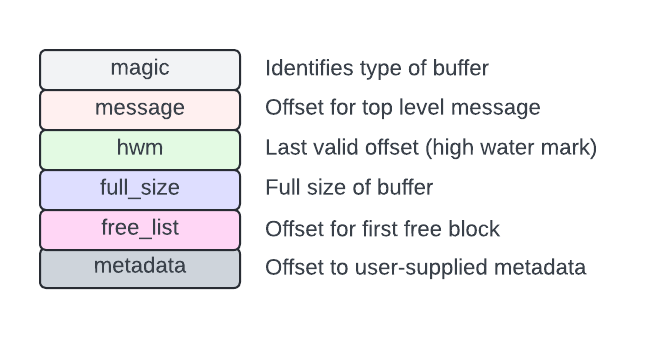
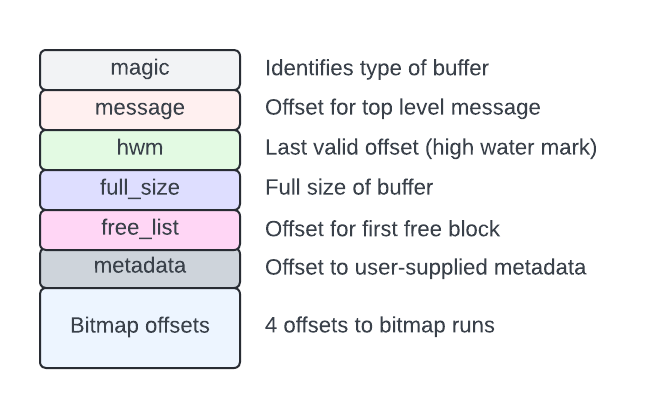
Update docs for bitmap allocator

diff --git a/phaser/docs/phaser_user_guide.md b/phaser/docs/phaser_user_guide.md
@@ -314,6 +314,32 @@ contents are stored).  If the message is **mutable** a `MutableMessageRuntime` i
 contains a map that contains information about the location of the message's `metadata` (where the fields
 are located).
 
+### Tuning the memory allocator
+The memory for the actual message contents is allocated inside the `PayloadBuffer` using a memory allocator (think malloc and free in a restricted, relocatable area of memory).  There are two modes for this memory allocator:
+
+1. Performance mode
+2. Size mode
+
+In performance mode (the default), two types of allocators are used depending on the size of the
+block being allocated:
+
+1. A bitmap allocator for blocks up to 16, 32, 64 and 128 bytes.
+2. A free-list allocator for all other block sizes
+
+The bitmap allocator is about twice as fast when allocating memory but does use more memory
+in the buffer.  This is most appropriate when you want the maximum performance out of the
+allocator but are not concerned about the size of the message.  If you are putting your
+messages in shared memory or somewhere where the message size isn't a concern, you can gain
+performance by using the bitmap allocator.
+
+However, if you are sending your messages over a network and want to keep them small,
+the size mode might be more appropiate.  It should be noted, though, that if you are concerned
+with message size, perhaps regular protobuf might be more suitable than Phaser
+
+To choose which mode to use, you can pass a `::phaser::Tuning` argument to the message
+constructor or creator.  The default is `::phaser::Tuning::kPerformance` and the other option
+is `::phaser::Tuning::kSize`.
+
 ### Creating a message in a dynamic buffer.
 The simplest way to create a Phaser message is the same as protobuf:
 
@@ -328,8 +354,9 @@ void Foo() {
 The above example creates a Phaser message of the type `TestMessage` on the local stack
 frame.  The binary message will be held in a variable sized buffer allocated from the
 heap.  The initial size of the buffer can be specified as an argument to the
-constructor, but is optional with a default of 1024 bytes (if 1K is big enough, or twice the
+constructor, but is optional with a default of 8192 bytes (if 8K is big enough, or twice the
 required binary size if not) but will expand as necessary.
+
 
 To get access to the buffer you can use the `Data()` and `ByteSizeLong()` functions, for
 example:
@@ -340,6 +367,17 @@ void Foo() {
   msg.set_x(1234);
   // ...
   SendMessage(msg.Data(), msg.ByteSizeLong());
+}
+```
+
+You can also tell it which buffer mode to use using a second parameter.  For example, to tune
+for size with a 4K buffer:
+
+```c++
+void Foo() {
+  foo::bar::phaser::TestMessage msg(4096, ::phaser::Tuning::kSize);
+  msg.set_x(1234);
+  // ...
 }
 ```
 
@@ -355,6 +393,7 @@ void Foo() {
   // ...
 }
 ```
+Tuning is also provided here too.
 
 ### Creating a message in a provided buffer.
 If you are using an IPC system that provides shared memory buffers (like [Subspace](https://github.com/dallison/subspace)) you will want to create your message directly in the shared memory.  To do this, use the
@@ -363,6 +402,16 @@ static function `CreateMutable`, as follows:
 ```c++
 void Foo(char* buffer, size_t size) {
   auto msg = foo::bar::phaser::TestMessage::CreateMutable(buffer, size);
+  msg.set_x(1234);
+  // ...
+}
+```
+
+You can choose the buffer mode by providing a tuning parameter:
+
+```c++
+void Foo(char* buffer, size_t size) {
+  auto msg = foo::bar::phaser::TestMessage::CreateMutable(buffer, size, ::phaser::Tuning::kSize);
   msg.set_x(1234);
   // ...
 }
@@ -783,7 +832,7 @@ However, as an example, here's how to access an int32 field called `x` with numb
 
 ```c++
   absl::StatusOr<bool> has_x =
-      ::phaser::PhaserBankHasField("foo.bar.TestMessage", msg, x_number);
+      ::phaser::PhaserBankHasField("foo.bar.TestMessage", msg, 100);
 
   absl::StatusOr<::phaser::Int32Field<> *> x =
       ::phaser::PhaserBankGetFieldByNumber<::phaser::Int32Field<>>(
@@ -920,14 +969,25 @@ the size.
 The `PayloadBuffer` works by creating a simple malloc/free data structure inside the
 memory provided.  It is not a standard heap management system though because 
 of the requirement that it can't use any virtual addresses (pointers).
-Modern heap management facilities that are very fast but don't really care
-about how much memory is used for making it fast.  This system's main
-goal is to minimize the amount of memory used as the whole buffer is
-the thing that is sent over the network as the message.  Therefore, rather
-than using elaborate (and fast) allocation techniques, this heap manager
-uses a simple free list of 32-bit offsets.  This makes it use less
-memory but also makes is slower and prone to heap fragmentation (has blocks that
-are too small to be of any use).
+
+There are two types of allocators in the `PayloadBuffer`, the choice of which
+to use being based on the block being allocated.  If the block is small
+a `bitmap allocator` is used to speed up the allocation.  The definition of
+a small block is one whose size is less than 16, 32, 64 or 128 bytes.  There
+are 4 bitmap allocators, one for each of those block sizes.  Bitmap
+allocators are fast but use more memory because they allocate a set of
+fixed size blocks up front and keep track of them using a bit mask.  This uses
+more memory than a simple free-list allocator.
+
+The second type of allocator is used for all other block sizes above
+128 bytes and is a simple free-list based allocator.  The bitmap allocator
+prevents heap fragmentation by using fixed size blocks, but with the free-list
+allocator, fragmentation is always possible.
+
+You can switch the bitmap allocator off when creating the `PayloadBuffer` using
+its constructor.  This parameter is controlled by Phaser's `Tuning` message
+construction argument.
+
 
 ### PayloadBuffer header
 The start of every PayloadBuffer contains a header, shown in the following diagram:
@@ -945,6 +1005,9 @@ Each member is 4-bytes long.  The first member is the `magic` which is either:
 This serves to identify the buffer as a PayloadBuffer and also whether it is
 movable or fixed.  Movable buffers are only moved when creating the message, however
 all buffers are relocatable in memory.
+
+The bottom bit of the magic field is used to specify whether the `bitmap allocator`
+is on or off (0 = off).
 
 The next member, `message` contains the offset to the root of the message tree
 in the buffer - the top level message.
@@ -972,13 +1035,26 @@ by allocated blocks.  An allocated block is always prefixed by a 4-byte length, 
 include the length field itself.  The allocator does its best to keep the free list as short as 
 possible to coalescing adjacent free blocks and expanding into blocks if possible.
 
-Finally we have a user-supplied offset to arbitrary `metadata`.  This is not used by
+Then we have a user-supplied offset to arbitrary `metadata`.  This is not used by
 Phaser, but can be provided by the user to make additional data available as necessary.
 For example, it could be set to the name of the message, or some other descriptor
 that can be used by a receiver.
 
 There are functions available in the `::phaser::Message` class to allocate, free and set the
 metadata field as needed.
+
+Finally we have 4 offsets for the 4 bitmap run vectors.  Each offset corresponds to a bitmap run for a
+particular size (16, 32, 64 or 128 bytes).  The bitmap runs are held in a vector of offsets to
+`BitMapRun` structs that grows as needed.  Each `BitMapRun` struct holds a bitmask showing
+which blocks are allocated, meta information about the run and the blocks themselves, each
+of which is prefixed by a 4 byte header.  If a block is allocated in a run, its corresponding bit in the
+bitmask is set to 1.
+
+This is shown in the following diagram, for a 32 byte run.
+
+<div>
+<img src="Bitmap run.png"/>
+</div>
 
 The binary version of a message can be seen in the following diagram:
 
